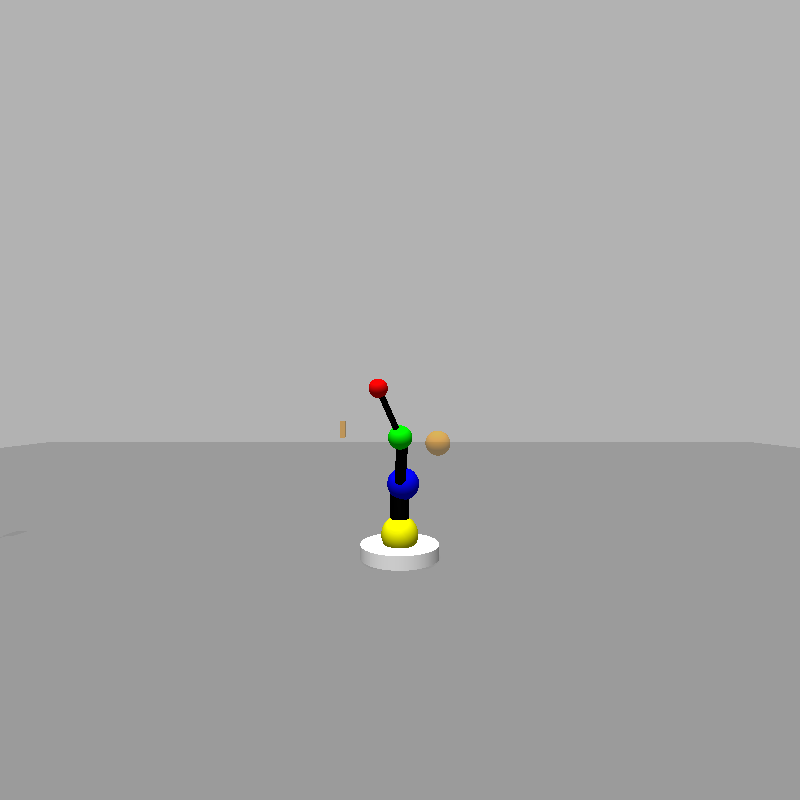
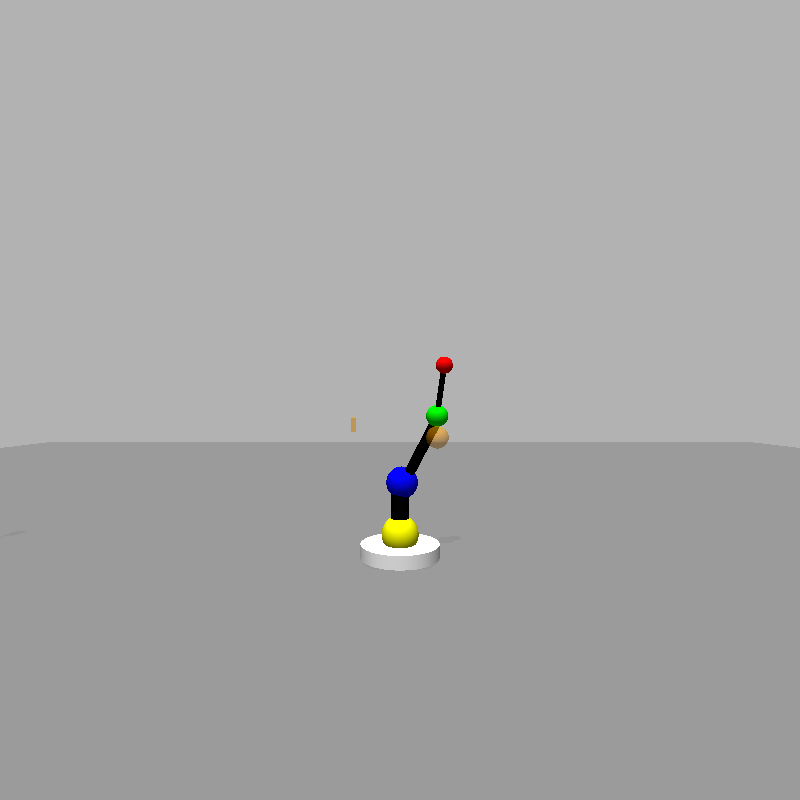
Add existing file

Changed region(s): [[0.4375, 0.4375, 0.5625, 0.625], [0.4062, 0.5312, 0.4375, 0.5625]]

diff --git a/catkin_ws/src/ivr_assignment/src/image2.py b/catkin_ws/src/ivr_assignment/src/image2.py
@@ -26,6 +26,7 @@ class image_converter:
     self.image_pub2 = rospy.Publisher("image_topic2",Image, queue_size = 1)
     # initialize a subscriber to recieve messages rom a topic named /robot/camera1/image_raw and use callback function to recieve data
     self.image_sub2 = rospy.Subscriber("/camera2/robot/image_raw",Image,self.callback2)
+    cv2.waitKey(1)
     self.image1_sub = rospy.Subscriber("/camera1/blob_pos",Float64MultiArray,self.callbackmaster)
     # initialize a publisher to publish position of blobs
     self.blob_pub2 = rospy.Publisher("/camera2/blob_pos",Float64MultiArray, queue_size=10)
@@ -44,6 +45,7 @@ class image_converter:
     self.target_ypos = rospy.Publisher("/target/y_position_measured", Float64, queue_size=10)
     self.target_zpos = rospy.Publisher("/target/z_position_measured", Float64, queue_size=10)
     # initialize the bridge between openCV and ROS
+    self.pos_reserve = np.array([0,0,0,0,0,0,0,0,0,0])
     
 
   #___________________detection of the blobs__________________________
@@ -99,7 +101,7 @@ class image_converter:
       return np.array([cx, cy])
 
   #______________get the projection from published blob data______________
-  def eliminate_nonvisible_blobs(self,blobs):    
+  def eliminate_nonvisible_blobs(self,blobs):  
     if np.isnan(blobs[4]):
       blobs[4]=blobs[2]
       blobs[5]=blobs[3]
@@ -195,9 +197,10 @@ class image_converter:
     #define unity vector pointing from blue blob to green blob
     b = self.x_measured[2]-self.x_measured[1]
     b = b/np.linalg.norm(b)
-    return (c1*s3+s1*s2*c3-b[0])**2+(s1*s3-c1*s2*c3-b[1])**2+(c2*c3-b[2])**2
+    return abs(c1*s3+s1*s2*c3-b[0])+abs(s1*s3-c1*s2*c3-b[1])+abs(c2*c3-b[2])
   def measure_angle(self):
-    theta_num = minimize(self.func_min,self.q_d[:-1],method='nelder-mead',options={'xtol':1e-5})
+    theta_num = minimize(self.func_min,self.q_d[:-1],method='nelder-mead',options={'xtol':1e-6})
+    #theta_num = minimize(self.func_min,np.array([0,0,0]),method='nelder-mead',options={'xtol':1e-8})
     theta_num = theta_num.x
     d = self.x_measured[3]-self.x_measured[2]
     d = d/np.linalg.norm(d)
@@ -276,7 +279,7 @@ class image_converter:
     self.blob_pos2.data=np.array([self.detect_yellow(self.cv_image2),self.detect_blue(self.cv_image2),self.detect_green(self.cv_image2),self.detect_red(self.cv_image2),self.orange_sphere2]).flatten()
     #im2=cv2.imshow('window2', self.cv_image2)
     #cv2.waitKey(1)
-    #cv2.imwrite('cam2.png',self.cv_image2)
+    cv2.imwrite('cam2.png',self.cv_image2)
 
     #Publish the results
     try: 
@@ -290,18 +293,23 @@ class image_converter:
   #_________________________combine both images____________________________
   def callbackmaster(self,data):
     #get the blob positions relative to the blue blob (blue at (0,0,0))
+    if len(self.blob_pos2.data)==0:
+      pos2 = self.pos_reserve
+    else:
+      pos2 = self.blob_pos2.data
+      self.pos_reserve = pos2
     blob_pos1 = np.array(data.data[0:8])
-    blob_pos2 = self.blob_pos2.data[0:8]
+    blob_pos2 = np.array(pos2[0:8])
     target_pos1 = np.array(data.data[8:])
-    target_pos2 = self.blob_pos2.data[8:]
-    
+    target_pos2 = pos2[8:]
+      
     pos_cam1,target_cam1 = self.get_projection(blob_pos1,target_pos1,5/134.)
     pos_cam2,target_cam2 = self.get_projection(blob_pos2,target_pos2,5/132.)
     self.x_measured = self.blobs_measured(pos_cam1,pos_cam2)
     self.target_measured = self.target_measure(target_cam1,target_cam2)
 
     #define desired joint angles
-    self.q_d = [1,-0.5,1,0.2]		#move robot here
+    self.q_d = [0.6, -0.3, 0.4 , 0.4]		#move robot here
     self.joint1=Float64()
     self.joint1.data= self.q_d[0]
     self.joint2=Float64()
@@ -328,8 +336,8 @@ class image_converter:
     self.spherez=Float64()
     self.spherez.data=self.target_measured[2]
 
-    #print("desired:\t{}".format(self.q_d))
-    #print("numerical:\t{}".format(theta_measured))
+    print("desired:\t{}".format(self.q_d))
+    print("numerical:\t{}".format(theta_measured))
     #print(self.func_min(self.q_d[:-1]))
     #print(self.func_min(theta_measured[:-1]))
 

diff --git a/catkin_ws/src/ivr_assignment/src/image1.py b/catkin_ws/src/ivr_assignment/src/image1.py
@@ -145,7 +145,7 @@ class image_converter:
     self.blob_pos1.data=np.array([self.detect_yellow(self.cv_image1),self.detect_blue(self.cv_image1),
 				  self.detect_green(self.cv_image1),self.detect_red(self.cv_image1),self.orange_sphere1]).flatten()
 
-    #cv2.imwrite('cam1.png',self.cv_image1)
+    cv2.imwrite('cam1.png',self.cv_image1)
     #Publish the results
     try: 
       self.image_pub1.publish(self.bridge.cv2_to_imgmsg(self.cv_image1, "bgr8"))
